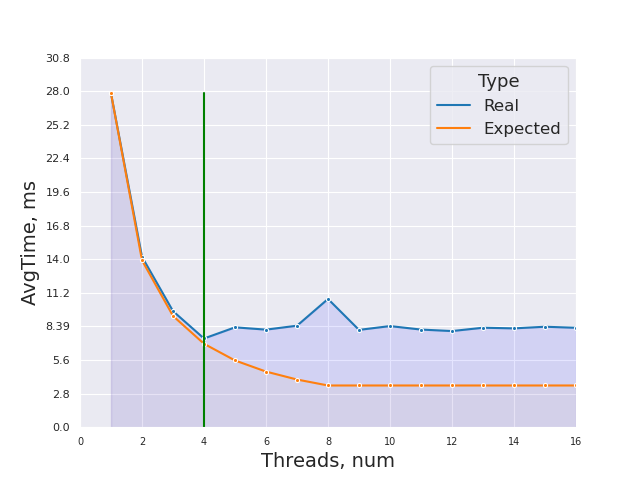
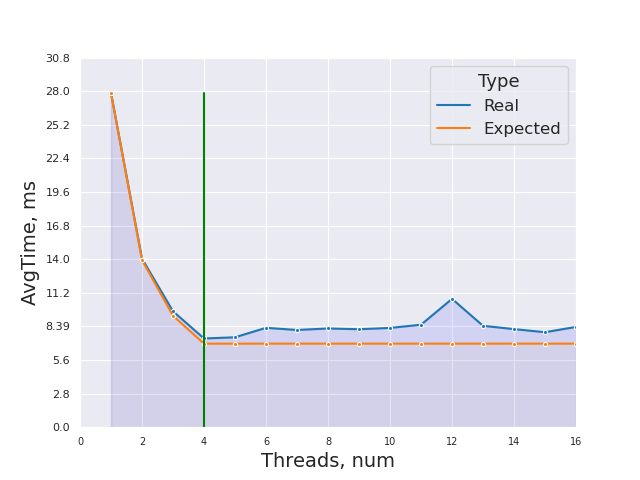
graphs

diff --git a/lab4/graphs/timing.py b/lab4/graphs/timing.py
@@ -1,1 +1,1 @@
-ts = [(1, 0.0278117), (2, 0.0141999), (3, 0.00967231), (4, 0.00739255), (5, 0.00832154), (6, 0.00813092), (7, 0.0084583), (8, 0.0106866), (9, 0.00811), (10, 0.00842673), (11, 0.00813694), (12, 0.00801182), (13, 0.00828898), (14, 0.00823632), (15, 0.00837183), (16, 0.0082848), ]
+ts = [(1, 0.0278494), (2, 0.0140425), (3, 0.00965906), (4, 0.00739277), (5, 0.00749256), (6, 0.00828252), (7, 0.00810159), (8, 0.0082273), (9, 0.00816512), (10, 0.00827166), (11, 0.00853935), (12, 0.010696), (13, 0.00845044), (14, 0.0081739), (15, 0.00791445), (16, 0.00835868), ]

diff --git a/lab4/graphs/graph.py b/lab4/graphs/graph.py
@@ -58,7 +58,7 @@ def get_plot(ylabel, unit, unitbound, threadbound, filename, all_ts, ymax, cores
 
 
 threadbound = 16
-cores = 8
+cores = 4
 ts = ts[:threadbound]
 t_succ = ts[0][1]
 
@@ -82,5 +82,5 @@ get_plot(
     argv[1],
     all_ts,
     max(ts_ds[0][1], exp_ts[0][1]),
-    4
+    cores
 )
